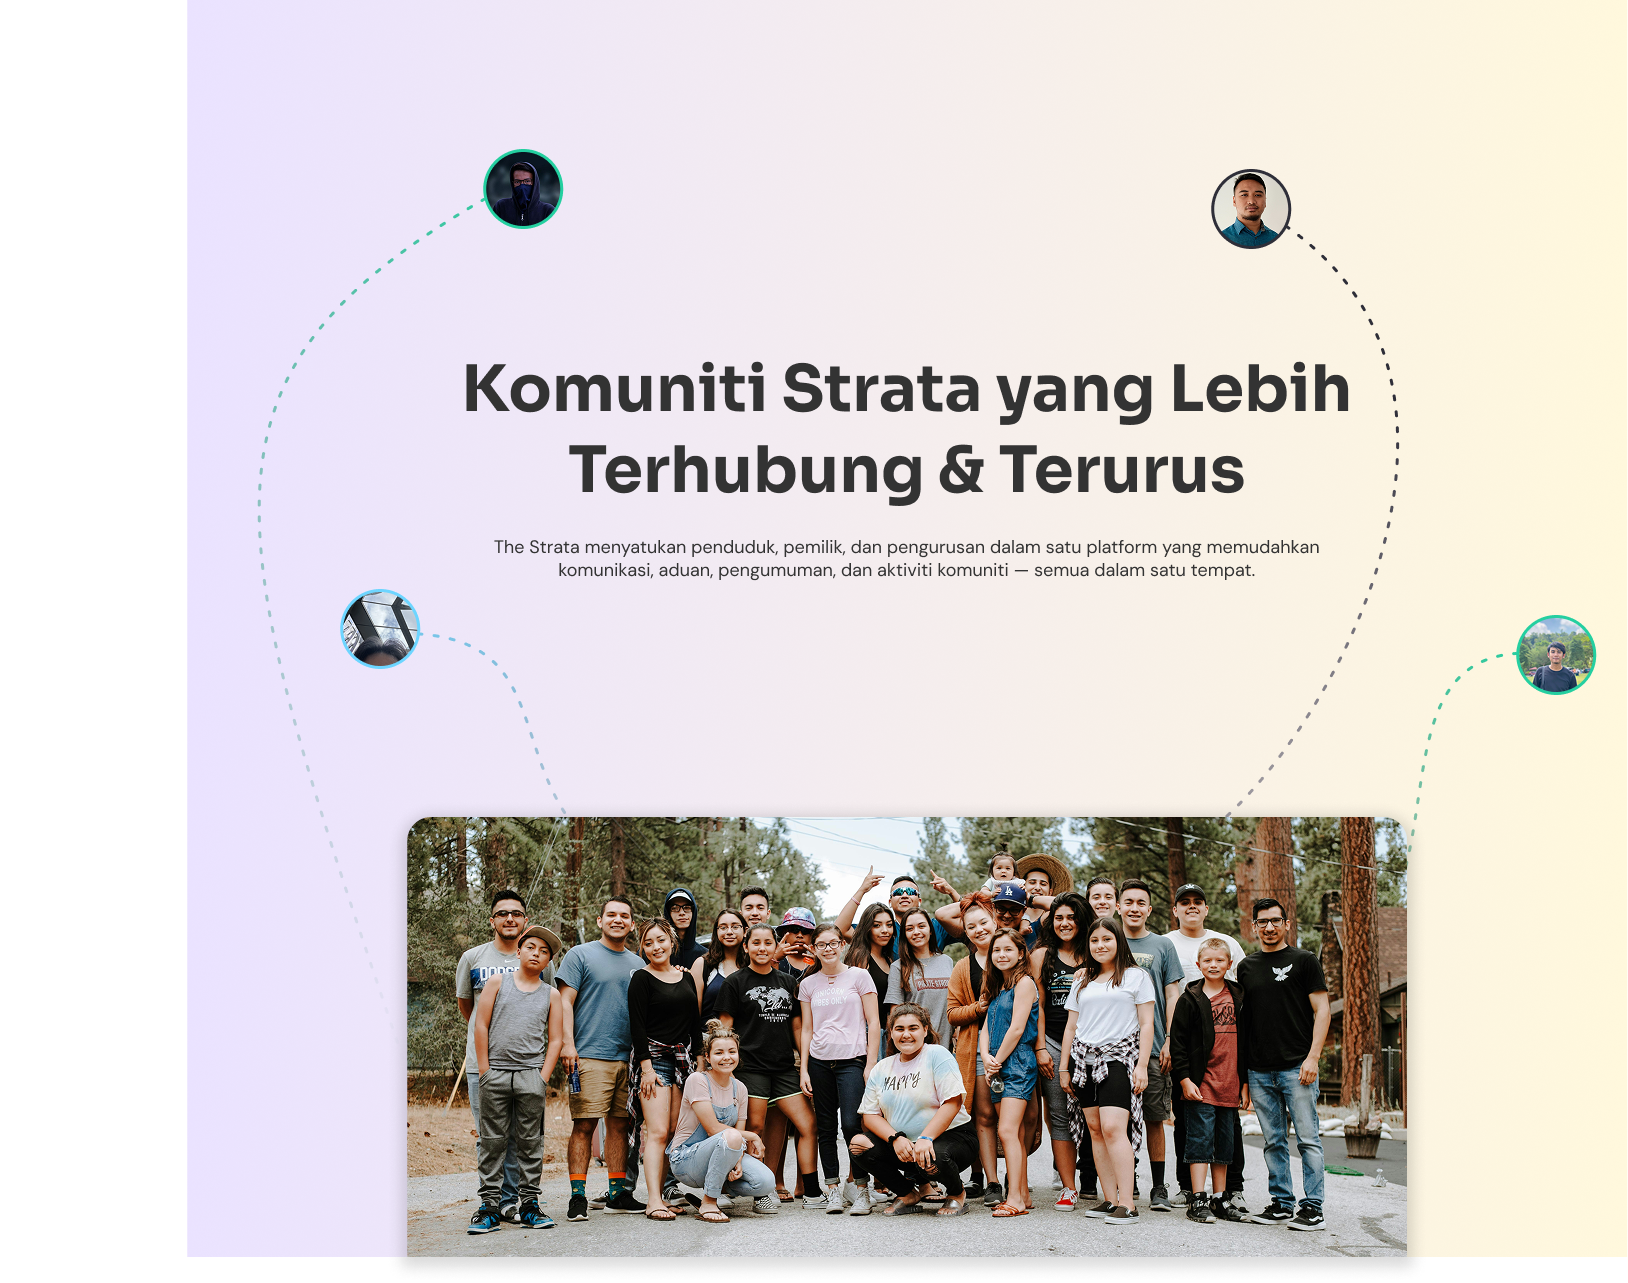
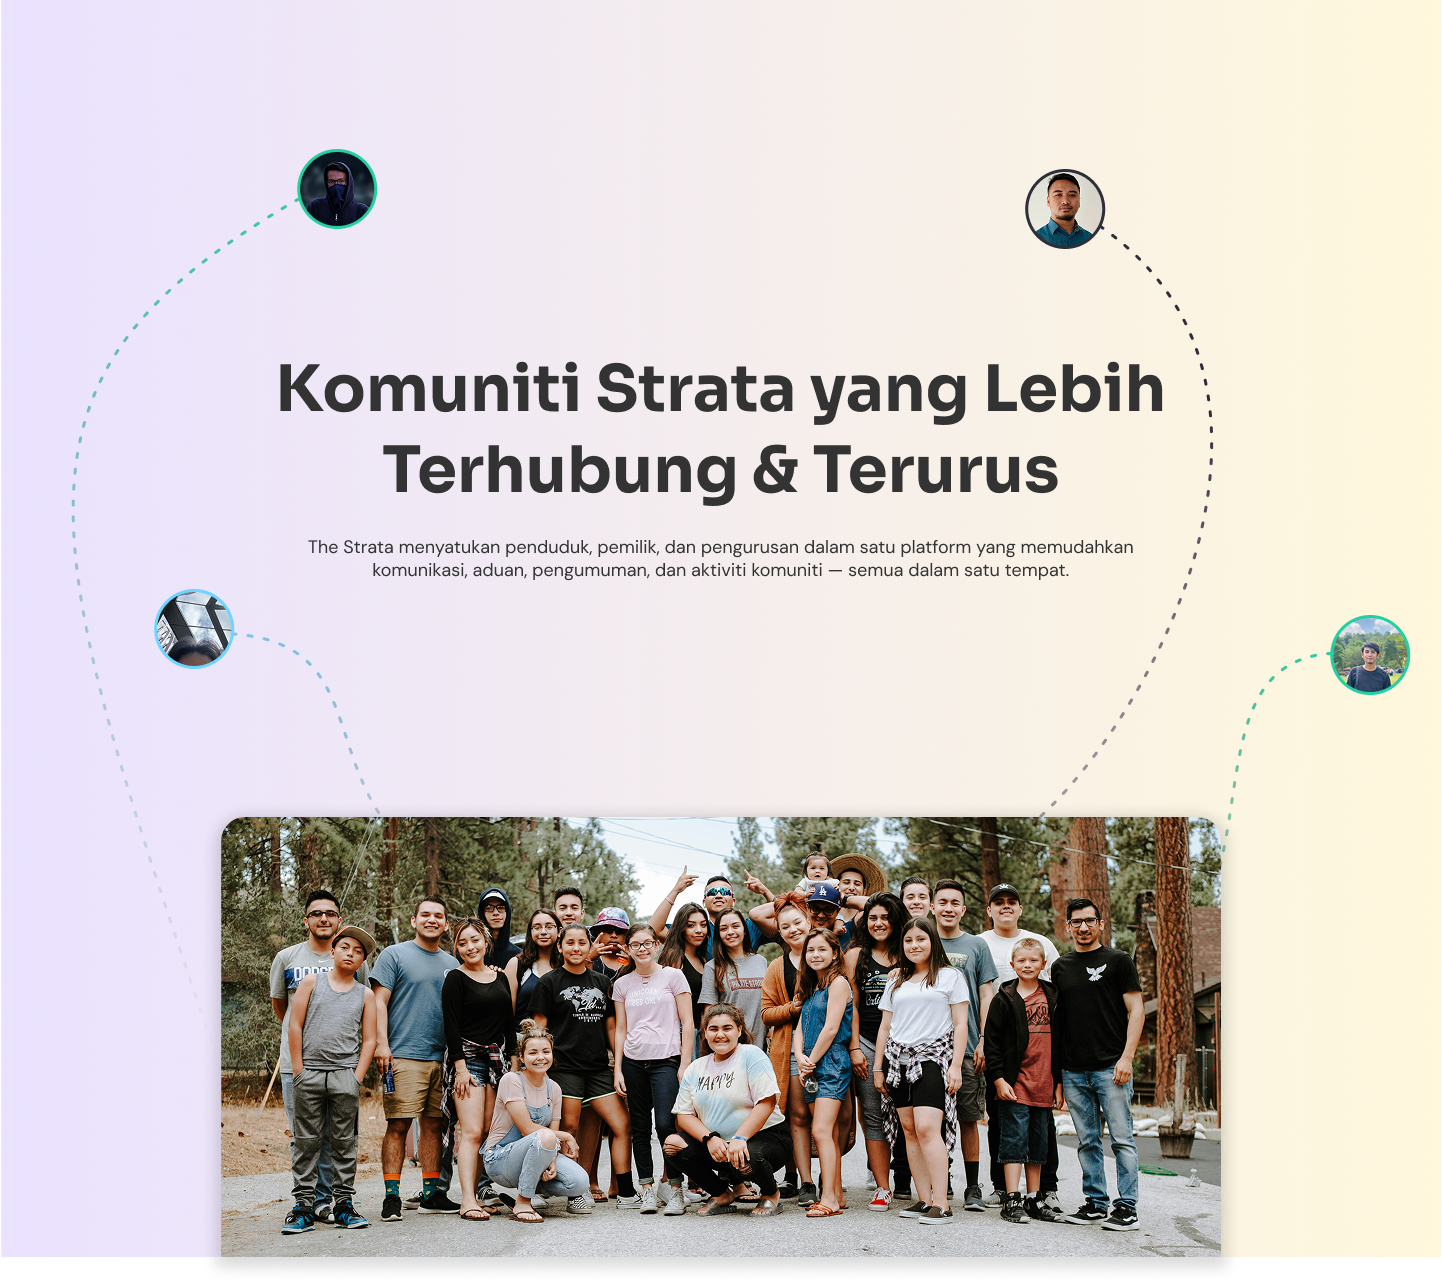
Update viewport scaling and artboard dimensions; improve layout responsiveness

diff --git a/app/page.module.css b/app/page.module.css
@@ -1,33 +1,33 @@
 .viewport {
-  --scale: calc(100vw / 1440);
+  --scale: min(calc(100vw / 1440), calc(100vh / 5366));
   display: flex;
-  justify-content: flex-start;
+  justify-content: center;
   align-items: flex-start;
   background: var(--canvas-bg);
   padding: 0;
   width: 100%;
-  min-height: calc(5366px * var(--scale));
+  min-height: 100vh;
   overflow-x: hidden;
 }
 
 .artboard {
   position: relative;
-  width: calc(1440px * var(--scale));
-  height: calc(5366px * var(--scale));
+  width: 1440px;
+  height: 5366px;
   background: var(--canvas-bg);
   overflow: hidden;
+  transform: scale(var(--scale));
+  transform-origin: top center;
 }
 
 .artboardInner {
   position: relative;
   width: 1440px;
   height: 5366px;
-  transform: scale(var(--scale));
-  transform-origin: top left;
 }
 
 @supports (zoom: 1) {
-  .artboardInner {
+  .artboard {
     zoom: var(--scale);
     transform: none;
   }
